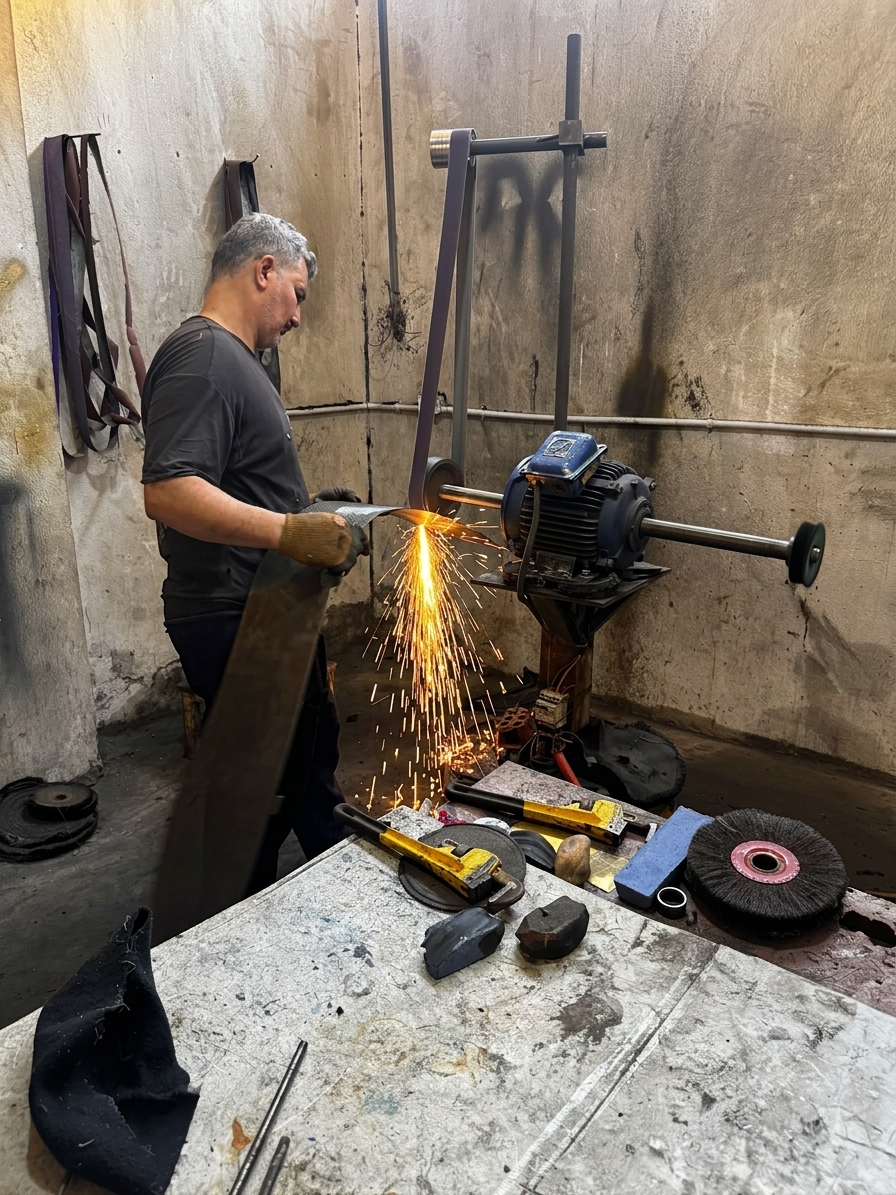
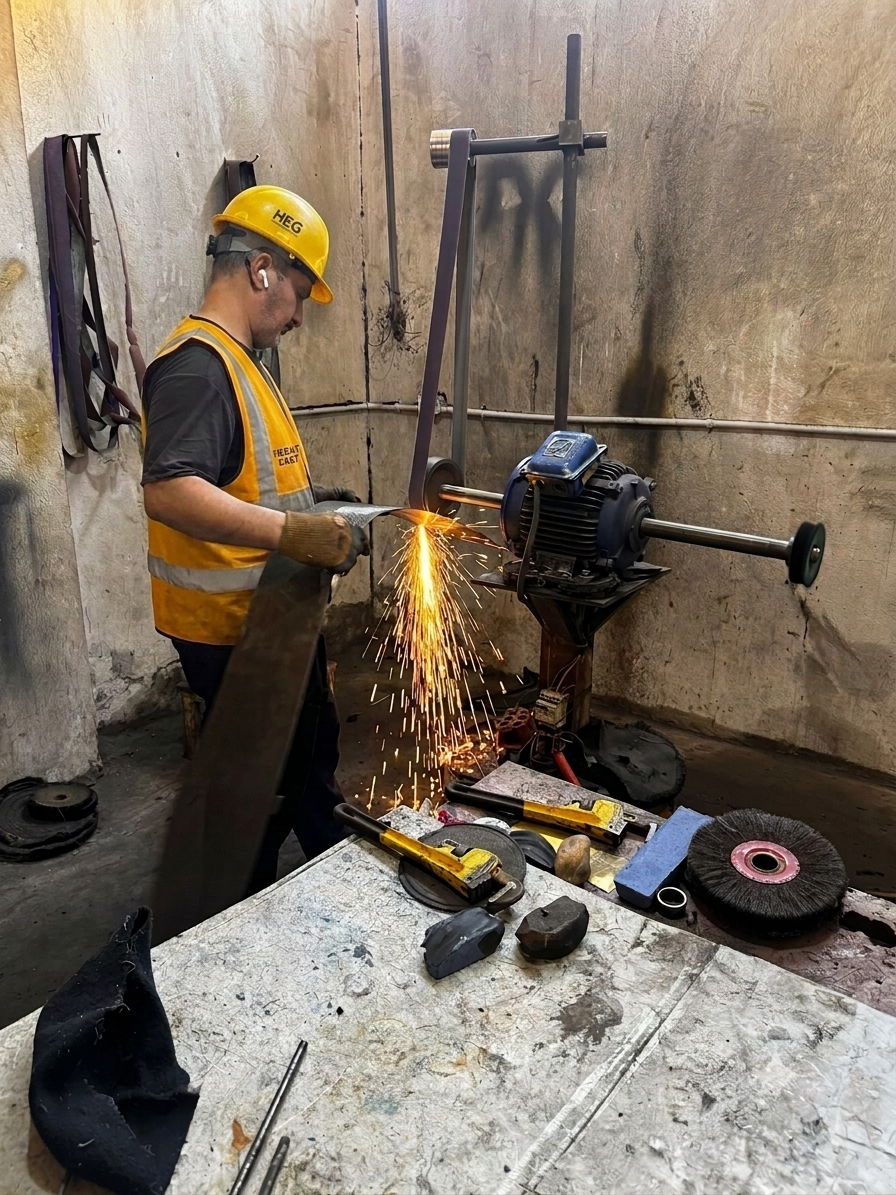
row

diff --git a/src/pages/About.tsx b/src/pages/About.tsx
@@ -171,7 +171,16 @@ const About = () => {
     : 'Human Resources Manager responsible for managing and developing human resources, supporting a positive work environment, and overseeing recruitment and employee development in alignment with the company’s goals.',
   image: "/team/sara.png" // غيّر المسار حسب الصورة الفعلية
 },
-
+{
+  name: isRTL ? 'إسلام محمد' : 'Islam Mohamed',
+  role: isRTL
+    ? 'مصمم هندسي'
+    : 'Engineering Designer',
+  bio: isRTL
+    ? 'مصمم هندسي بخبرة 3 سنوات في تصميم الثريات وحلول الإضاءة، يجيد العمل على برامج التصميم والنمذجة الهندسية لإعداد التصاميم والرسومات الفنية القابلة للتنفيذ بدقة واحترافية.'
+    : 'Engineering Designer with 3 years of experience in chandelier and architectural lighting design, creating accurate, production-ready designs and technical drawings using industry-standard design and 3D modeling software.',
+  image: "/team/ISA.png" // غيّر المسار حسب الصورة الفعلية
+},
 
   ];
 
